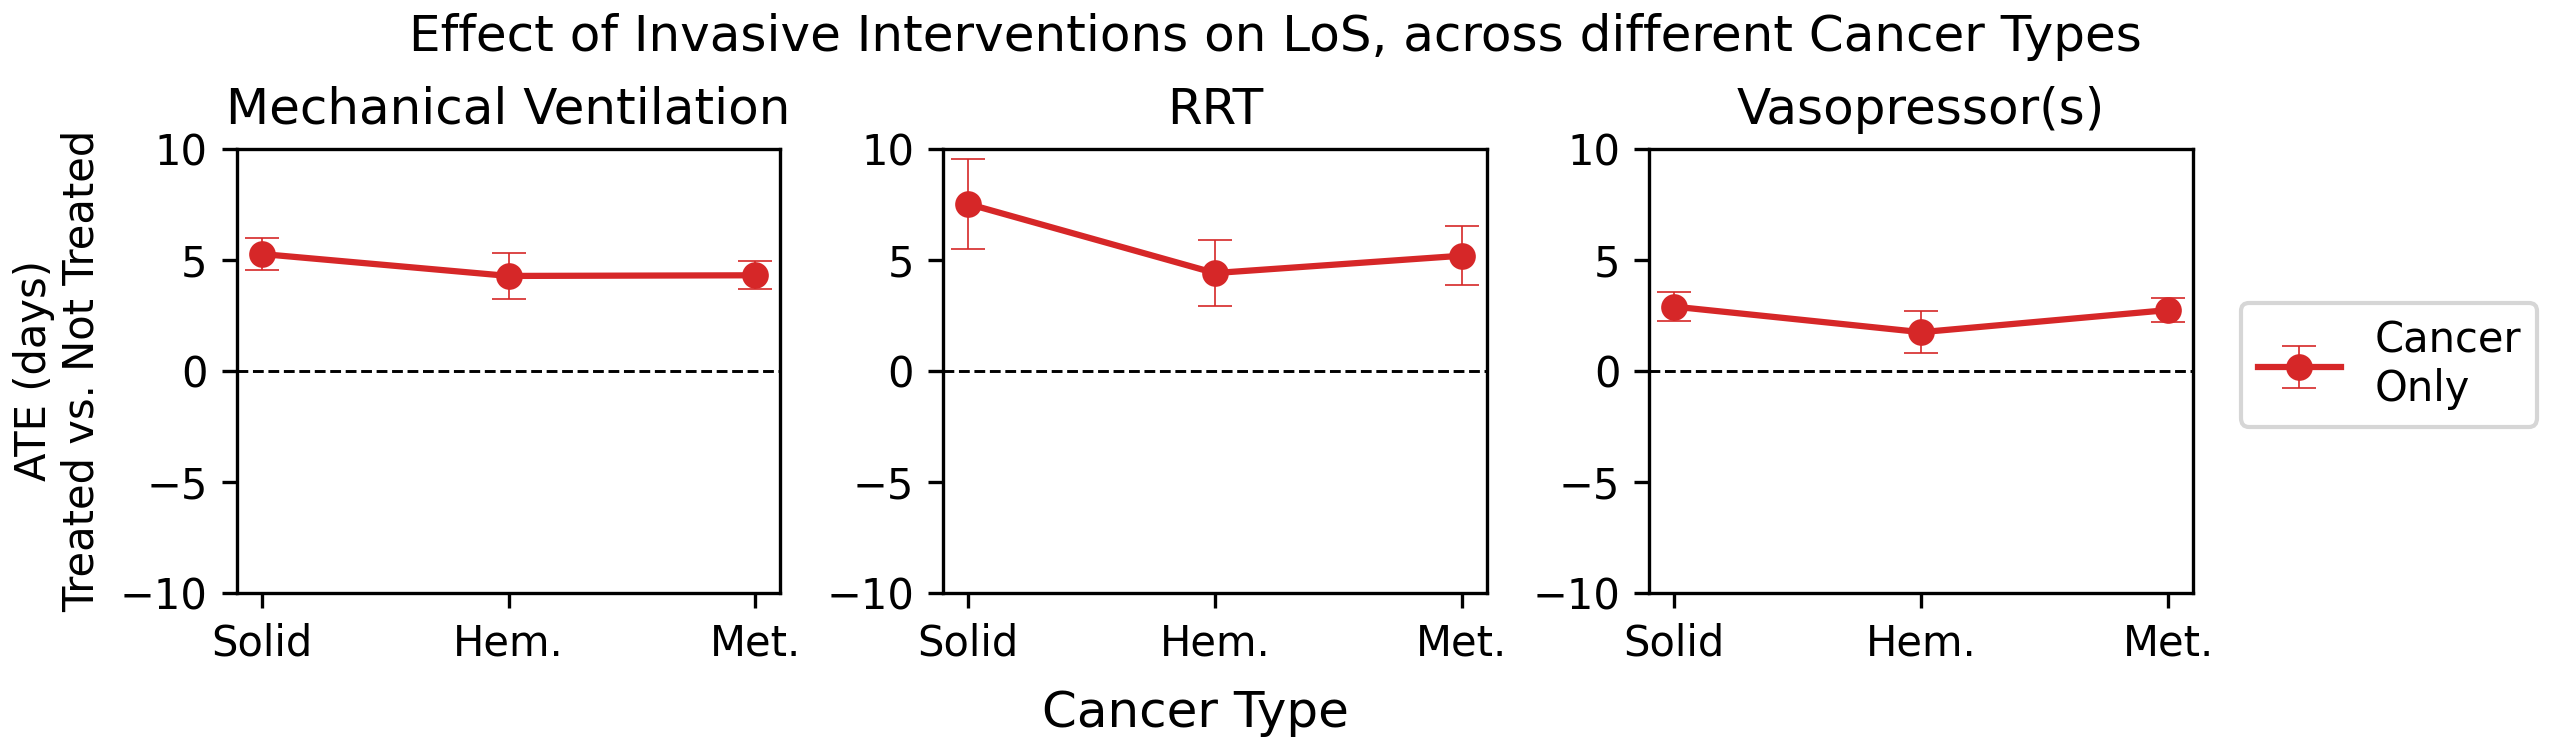
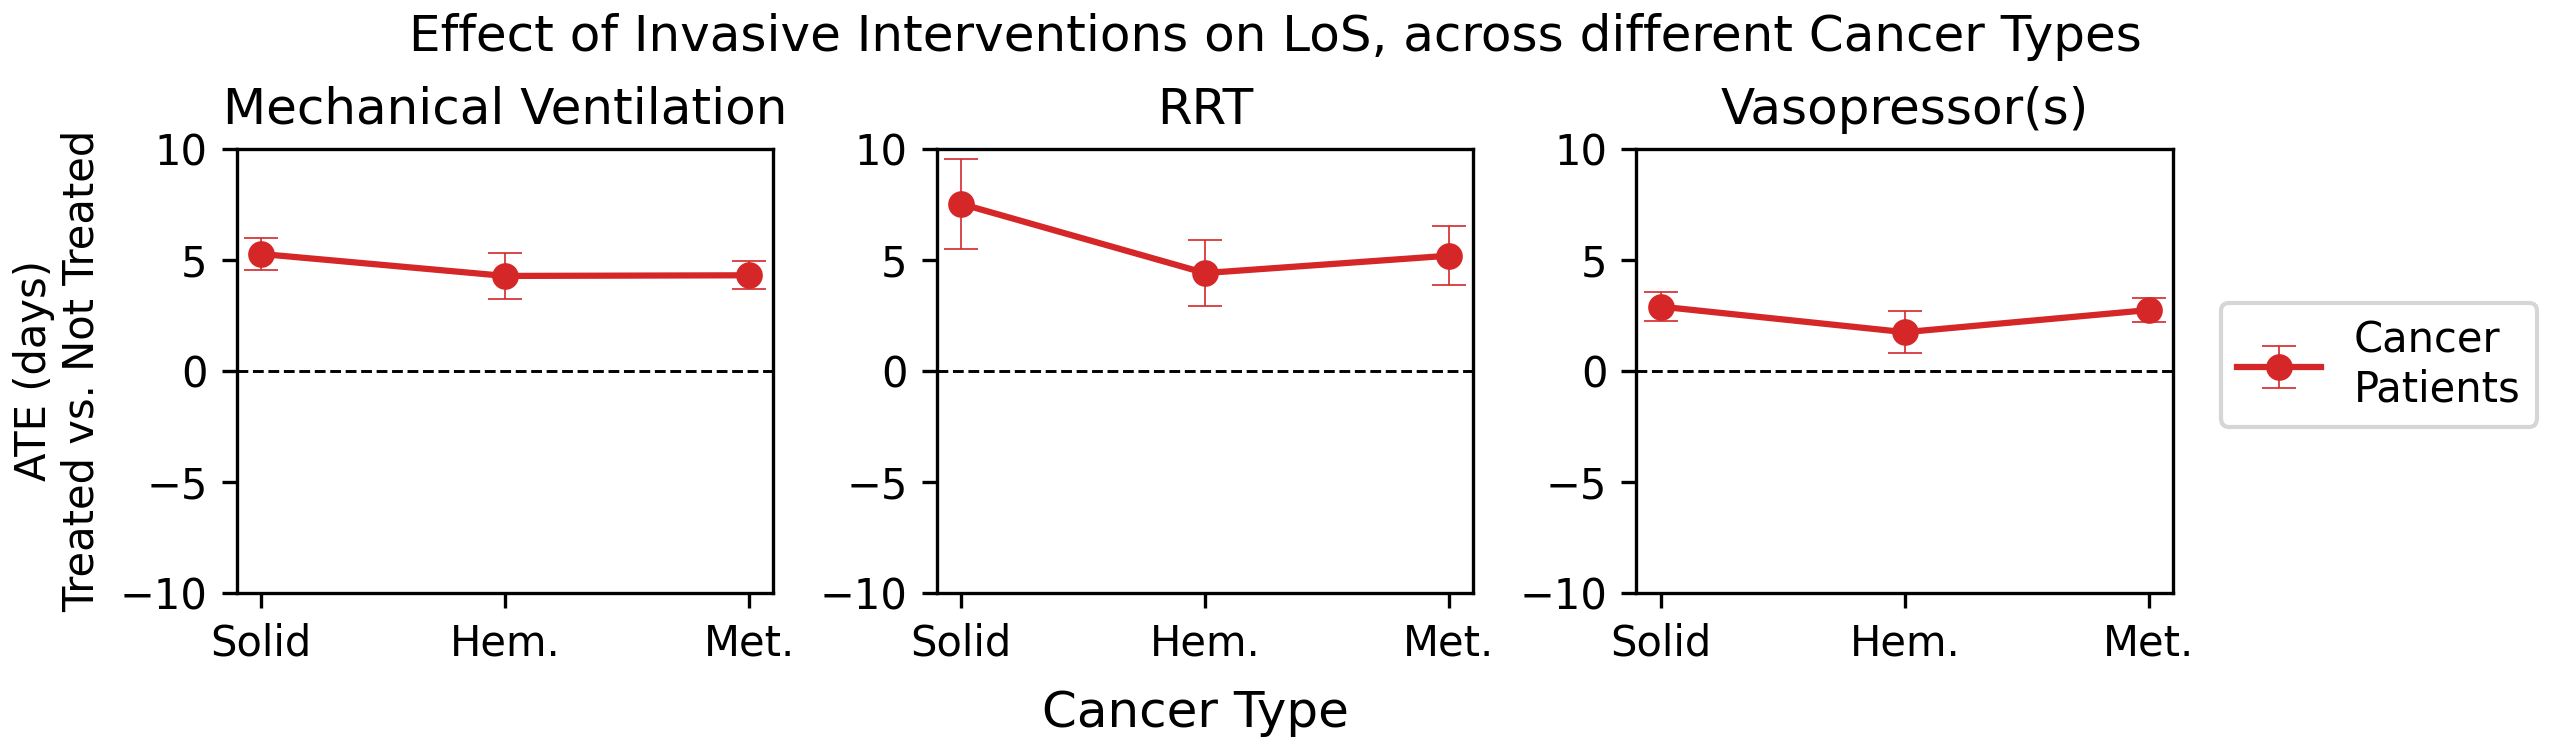
Fix TMLE plot, remove global ATE

diff --git a/src/7_plots/3B.py b/src/7_plots/3B.py
@@ -6,6 +6,7 @@ import matplotlib
 matplotlib.use('TKAgg')
 
 df = pd.read_csv("results/tmle/3B.csv")
+df[~((df.sofa_start == 0) & (df.sofa_end == 24))]
 
 t_dict = dict(zip(["mech_vent", "rrt", "vasopressor"],
                 ["Mechanical Ventilation", "RRT", "Vasopressor(s)"]))
@@ -25,7 +26,7 @@ for i, t in enumerate(t_dict.keys()):
                     yerr=((df_temp1.psi- df_temp1.i_ci), (df_temp1.s_ci-df_temp1.psi)),
                     fmt='-o', c='tab:red', ecolor='tab:red',
                     elinewidth=.4, linewidth=1.5, capsize=4, markeredgewidth=.4,
-                    label="Cancer\nOnly")
+                    label="Cancer\nPatients")
 
     axes[i].axhline(y=0, xmin=0, xmax=1, c="black", linewidth=.7, linestyle='--')
     axes[i].set_ylim([-10, 10])

diff --git a/src/5_positivity/2B.py b/src/5_positivity/2B.py
@@ -1,0 +1,13 @@
+
+
+
+tbl_pos <- table1(~ mech_vent + rrt + vasopressor 
+                  | mortality_in*cancer_type, 
+                  data=df, 
+                  render.missing=NULL, 
+                  topclass="Rtable1-grid Rtable1-shade Rtable1-times",
+                  render.categorical=render.categorical, 
+                  render.strat=render.strat)
+
+# Convert to flextable
+t1flex(tbl_pos) %>% save_as_docx(path="results/table1/Table_posA.docx")

diff --git a/src/5_positivity/2A.py b/src/5_positivity/2A.py
@@ -1,0 +1,10 @@
+tbl_pos <- table1(~ mech_vent + rrt + vasopressor 
+                  | mortality_in*has_cancer, 
+                  data=df, 
+                  render.missing=NULL, 
+                  topclass="Rtable1-grid Rtable1-shade Rtable1-times",
+                  render.categorical=render.categorical, 
+                  render.strat=render.strat)
+
+# Convert to flextable
+t1flex(tbl_pos) %>% save_as_docx(path="results/table1/Table_posA.docx")

diff --git a/src/7_plots/3A.py b/src/7_plots/3A.py
@@ -7,6 +7,7 @@ matplotlib.use('TKAgg')
 
 
 df = pd.read_csv("results/tmle/3A.csv")
+df = df[~((df.sofa_start == 0) & (df.sofa_end == 24))]
 
 t_dict = dict(zip(["mech_vent", "rrt", "vasopressor"],
                 ["Mechanical Ventilation", "RRT", "Vasopressor(s)"]))

diff --git a/src/7_plots/2A_SA.py b/src/7_plots/2A_SA.py
@@ -6,6 +6,7 @@ import matplotlib
 matplotlib.use('TKAgg')
 
 df_raw = pd.read_csv("results/tmle/SAs/2A_SA.csv")
+df[~((df.sofa_start == 0) & (df.sofa_end == 24))]
 
 # Transform into percentages
 df_raw.psi = df_raw.psi * 100

diff --git a/src/7_plots/2B_SA.py b/src/7_plots/2B_SA.py
@@ -6,6 +6,7 @@ import matplotlib
 matplotlib.use('TKAgg')
 
 df_raw = pd.read_csv("results/tmle/SAs/2B_SA.csv")
+df[~((df.sofa_start == 0) & (df.sofa_end == 24))]
 
 # Transform into percentages
 df_raw.psi = df_raw.psi * 100

diff --git a/src/7_plots/2B.py b/src/7_plots/2B.py
@@ -6,6 +6,7 @@ import matplotlib
 matplotlib.use('TKAgg')
 
 df = pd.read_csv("results/tmle/2B.csv")
+df[~((df.sofa_start == 0) & (df.sofa_end == 24))]
 
 # Transform into percentages
 df.psi = df.psi * 100

diff --git a/src/7_plots/2A.py b/src/7_plots/2A.py
@@ -7,6 +7,7 @@ matplotlib.use('TKAgg')
 
 
 df = pd.read_csv("results/tmle/2A.csv")
+df[~((df.sofa_start == 0) & (df.sofa_end == 24))]
 
 # Transform into percentages
 df.psi = df.psi * 100
